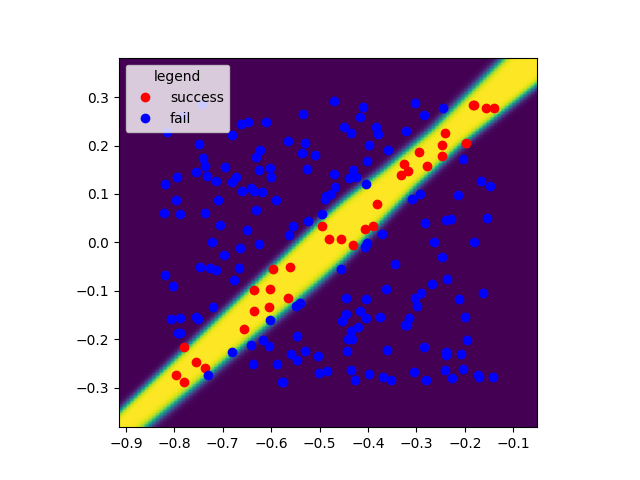
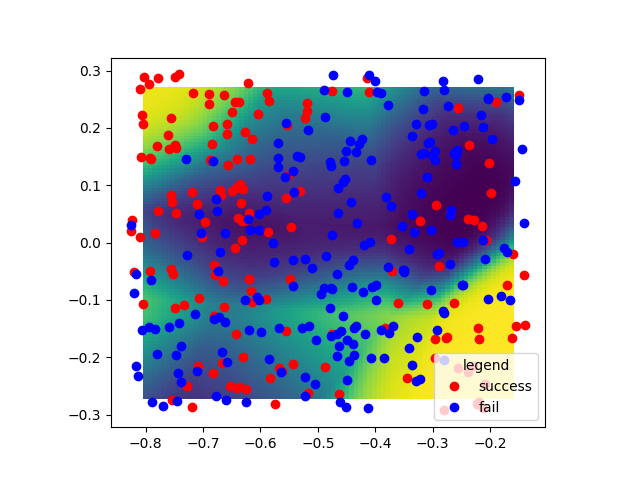
adding new trajectory analysis

diff --git a/scripts/curriculum/classifier_curriculum.py b/scripts/curriculum/classifier_curriculum.py
@@ -36,6 +36,7 @@ class CurriculumCallback(EvalCallback):
             self.opimizer = torch.optim.Adam(self.classifier.parameters(), lr=1e-3)
             self.classifier_optimizer_steps = 1000
             self.loss_fn = torch.nn.BCELoss()
+        self.use_balanced_dataset = False
         
         
     def _preprocesses_ppo_buffer(self):
@@ -68,18 +69,22 @@ class CurriculumCallback(EvalCallback):
             self.cur_buffer_successes.append(success)
             self.cur_buffer_ego_goals.append(goal)
             cur_traj = obs[episode_starts_idx[i]:episode_starts_idx[i+1], 4:6]
-            if i < 500:
-                if success:
-                    plt.plot(cur_traj[:,0], cur_traj[:,1], '-g')
-                    plt.plot(goal[0], goal[1], 'bo', markersize=5)
+            # if i < 25:
+            #     if success:
+            #         # plt.plot(cur_traj[:,0], cur_traj[:,1], '-g')
                     
-                else:
-                    continue
-                    plt.plot(cur_traj[:,0], cur_traj[:,1], '-r')
+            #         plt.plot(goal[0], goal[1], 'bo', markersize=5)
+            #         indixies = np.arange(cur_traj.shape[0])
+            #         plt.scatter(cur_traj[:,0], cur_traj[:,1], c=indixies, )
+            #         plt.savefig('trajectories.png')
+            #         import pdb; pdb.set_trace()
+                    
+                    
+            #     else:
+            #         continue
+            #         plt.plot(cur_traj[:,0], cur_traj[:,1], '-r')
                     
                 
-        plt.savefig('trajectories.png')
-        import pdb; pdb.set_trace()
         
     def _on_rollout_start(self) -> None:
         """
@@ -101,24 +106,24 @@ class CurriculumCallback(EvalCallback):
         num_succ = succ_idx.shape[0]
         num_fail = fail_idx.shape[0]
         
-
+        if num_succ > num_fail:
+            succ_idx_choices = np.arange(0, succ_idx.shape[0])
+            balanced_succ_idx = np.random.choice(succ_idx_choices, num_fail, replace=False)
+            balanced_succ_goals = N_most_recent_ego_goals[succ_idx[balanced_succ_idx]]
+            balanced_features = np.concatenate((balanced_succ_goals, N_most_recent_ego_goals[fail_idx]), axis=0)
+            balanced_labels = np.concatenate((np.ones(num_fail), np.zeros(num_fail)))
+        else:
+            fail_idx_choices = np.arange(0, fail_idx.shape[0])
+            balanced_fail_idx = np.random.choice(fail_idx_choices, num_succ, replace=False)
+            balanced_fail_goals = N_most_recent_ego_goals[fail_idx[balanced_fail_idx]]
+            balanced_features = np.concatenate((balanced_fail_goals, N_most_recent_ego_goals[succ_idx]), axis=0)
+            balanced_labels = np.concatenate((np.zeros(num_succ), np.ones(num_succ)))
         
         if self.classifier_type == 'logistic_regression':
             
-            if num_succ > num_fail:
-                succ_idx_choices = np.arange(0, succ_idx.shape[0])
-                balanced_succ_idx = np.random.choice(succ_idx_choices, num_fail, replace=False)
-                balanced_succ_goals = N_most_recent_ego_goals[succ_idx[balanced_succ_idx]]
-                features = np.concatenate((balanced_succ_goals, N_most_recent_ego_goals[fail_idx]), axis=0)
-                labels = np.concatenate((np.ones(num_fail), np.zeros(num_fail)))
-            else:
-                fail_idx_choices = np.arange(0, fail_idx.shape[0])
-                balanced_fail_idx = np.random.choice(fail_idx_choices, num_succ, replace=False)
-                balanced_fail_goals = N_most_recent_ego_goals[fail_idx[balanced_fail_idx]]
-                features = np.concatenate((balanced_fail_goals, N_most_recent_ego_goals[succ_idx]), axis=0)
-                labels = np.concatenate((np.zeros(num_succ), np.ones(num_succ)))
+
                 
-            X_train, X_test, y_train, y_test = train_test_split(features, labels.astype(np.uint8), test_size=0.2, random_state=42)
+            X_train, X_test, y_train, y_test = train_test_split(balanced_features, balanced_labels.astype(np.uint8), test_size=0.2, random_state=42)
             self.classifier.fit(X_train, y_train)
             # Predict on the test set
             predictions = self.classifier.predict_proba(X_test)
@@ -128,8 +133,12 @@ class CurriculumCallback(EvalCallback):
             print(f"Accuracy: {accuracy}")
             
         elif self.classifier_type == 'mlp':
-            ego_goals = np.array(self.cur_buffer_ego_goals)
-            successes = np.array(self.cur_buffer_successes)
+            if self.use_balanced_dataset:
+                ego_goals = balanced_features
+                successes = balanced_labels
+            else:
+                ego_goals = np.array(self.cur_buffer_ego_goals)
+                successes = np.array(self.cur_buffer_successes)
             X_train, X_test, y_train, y_test = train_test_split(ego_goals, successes, test_size=0.2, random_state=42)
             
             input = torch.tensor(X_train, dtype=torch.float32)
@@ -165,8 +174,10 @@ class CurriculumCallback(EvalCallback):
             self.goal_predictions = self.classifier(points)[:,0].detach().numpy().reshape(len(x), len(y))
             plt.clf()
             plt.imshow(self.goal_predictions, extent=(min_x, max_x, min_y, max_y), origin='lower')
-            plt.plot(N_most_recent_ego_goals[N_most_recent_successes == 1][:,0], N_most_recent_ego_goals[N_most_recent_successes == 1][:,1], 'ro', label='success')
-            plt.plot(N_most_recent_ego_goals[N_most_recent_successes == 0][:,0], N_most_recent_ego_goals[N_most_recent_successes == 0][:,1], 'bo', label='fail')            
+            # plt.plot(N_most_recent_ego_goals[N_most_recent_successes == 1][:,0], N_most_recent_ego_goals[N_most_recent_successes == 1][:,1], 'ro', label='success')
+            # plt.plot(N_most_recent_ego_goals[N_most_recent_successes == 0][:,0], N_most_recent_ego_goals[N_most_recent_successes == 0][:,1], 'bo', label='fail')    
+            plt.plot(ego_goals[successes == 1][:,0], ego_goals[successes == 1][:,1], 'ro', label='success')
+            plt.plot(ego_goals[successes == 0][:,0], ego_goals[successes == 0][:,1], 'bo', label='fail')            
             plt.legend(title='legend')
             plt.savefig('goal_predictions.png')
 

diff --git a/scripts/utils.py b/scripts/utils.py
@@ -7,6 +7,7 @@ from tensorboard.backend.event_processing import event_accumulator
 import matplotlib.pyplot as plt
 import wandb
 from airhockey.renderers.render import AirHockeyRenderer
+import numpy as np
 
 
 def save_tensorboard_plots(log_dir, air_hockey_cfg):
@@ -122,6 +123,8 @@ class EvalCallback(BaseCallback):
         self.renderer = AirHockeyRenderer(eval_env)
         self.classifier_acc = None
         self.goal_predictions = None
+        self.eval_ego_goals = []
+        self.eval_ego_goals_succ = []
     
     def _eval(self, include_frames=False):
         avg_undiscounted_return = 0.0
@@ -131,6 +134,8 @@ class EvalCallback(BaseCallback):
         # also save first 5 eps into gif
         n_eps_viz = 5
         frames = []
+        self.eval_ego_goals = []
+        self.eval_ego_goals_succ = []
         for ep_idx in range(self.n_eval_eps):
             obs, info = self.eval_env.reset()
             done = False
@@ -150,11 +155,15 @@ class EvalCallback(BaseCallback):
                 undiscounted_return += rew
                 assert 'success' in info
                 assert (info['success'] == True) or (info['success'] == False)
-                if info['success'] is True or info['success'] > 0:
+                if info['success'] == True:
+                    # print(rew, info['success'])
+                    # import pdb; pdb.set_trace()
                     success = True
                     # print('SUCECSS')
                 max_reward = info['max_reward']
                 min_reward = info['min_reward']
+            self.eval_ego_goals.append(info['ego_goal'])
+            self.eval_ego_goals_succ.append(success)
             avg_undiscounted_return += undiscounted_return
             # avg_success_rate += 1.0 if success  else 0.0
             avg_success_rate += success
@@ -209,6 +218,15 @@ class EvalCallback(BaseCallback):
             if self.goal_predictions is not None:
                 plt.imsave( os.path.join(progress_dir, 'goal_predictions.png'), self.goal_predictions)
 
+            plt.clf()
+            eeg = np.array(self.eval_ego_goals)
+            succ_mask = np.array(self.eval_ego_goals_succ)
+            # plt.plot(self.eval_ego_goals, c=self.eval_ego_goals_succ, marker='o')
+            plt.plot(eeg[succ_mask, 0], eeg[succ_mask, 1], c='g', marker='o', linestyle='None')
+            plt.plot(eeg[~succ_mask, 0], eeg[~succ_mask, 1], c='r', marker='o', linestyle='None')
+            
+            plt.savefig(os.path.join(progress_dir, 'ego_goal_predictions.png'))
+            
     def _on_step(self) -> bool:
         """
         This method will be called by the model after each call to `env.step()`.

diff --git a/airhockey/airhockey.py b/airhockey/airhockey.py
@@ -92,7 +92,7 @@ class AirHockeyEnv(Env):
         self.goal_set = None
         self.goal_selector = goal_selector
         self.initialize_spaces()
-        
+        self.falling_time = 25
         self.metadata = {}
         self.reset()
 
@@ -240,7 +240,7 @@ class AirHockeyEnv(Env):
                 reward[reward_mask] = 0
                 
                 if 'dense' in self.reward_type:
-                    bonus = 10
+                    bonus = 10 if self.current_timestep > self.falling_time else 0 # this prevents the falling initiliazwed puck from triggering a success
                     reward = -dist  + (bonus if dist < radius else 0)
                     
             else:
@@ -397,7 +397,7 @@ class AirHockeyEnv(Env):
 
             if self.goal_selector == 'dynamic':
                 # self.ego_goal_pos = ego_goal_pos if self.goal_set is None else self.goal_set[0]
-                self.ego_goal_radius  = 0.2
+                self.ego_goal_radius  = 0.16
             # elif self.goal_radius_type == 'dynamic':
             #     self.ego_goal_radius = 
 
@@ -458,8 +458,9 @@ class AirHockeyEnv(Env):
                 if puck_velcoity_vertical:
                     puck_within_ego_goal = True
                     
-                if self.terminate_on_goal_success and puck_velcoity_vertical:
-                    truncated = True
+                if self.terminate_on_goal_success and self.current_timestep > self.falling_time:
+                    terminated = True
+                    
                     
             if multiagent:
                 if self.is_within_goal_region(self.alt_goal_pos, state_info['pucks'][0]['position'], self.alt_goal_radius):
@@ -515,7 +516,8 @@ class AirHockeyEnv(Env):
             return reward, success
         elif self.reward_type == 'goal_position_dense' or self.reward_type == 'goal_position_velocity_dense':
             reward = self.compute_reward(self.get_achieved_goal(state_info), self.get_desired_goal(), {})
-            success = self.is_within_goal_region(goal_pos, state_info['pucks'][0]['position'], goal_radius)
+            # success = self.is_within_goal_region(goal_pos, state_info['pucks'][0]['position'], goal_radius)
+            success = reward > 0.0
             if success: 
                 # import pdb; pdb.set_trace()
                 pass
@@ -801,7 +803,7 @@ class AirHockeyEnv(Env):
         
         info['max_reward'] = self.max_reward_in_single_step
         info['min_reward'] = self.min_reward_in_single_step
-
+        info['ego_goal'] = self.ego_goal_pos
         self.current_timestep += 1
         
         obs = self.get_observation(next_state)
